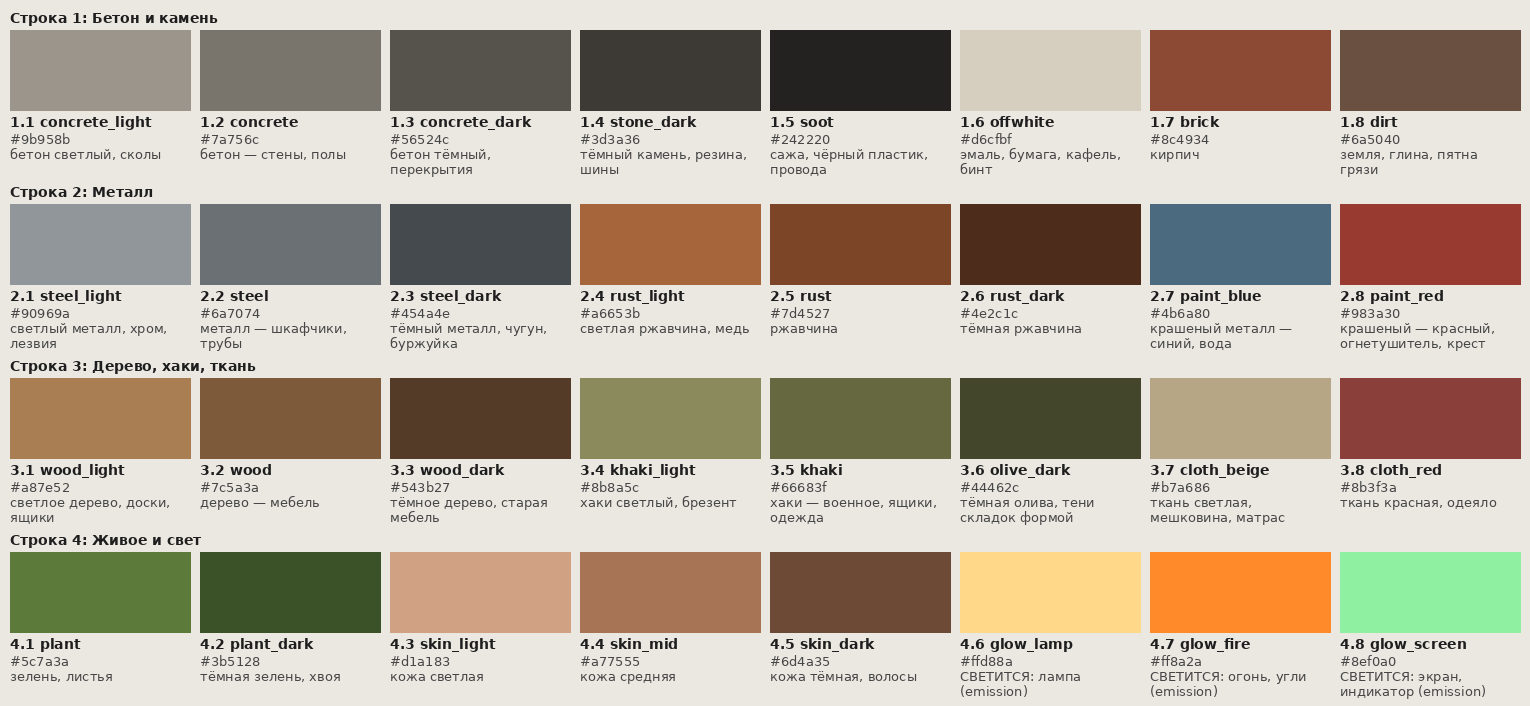
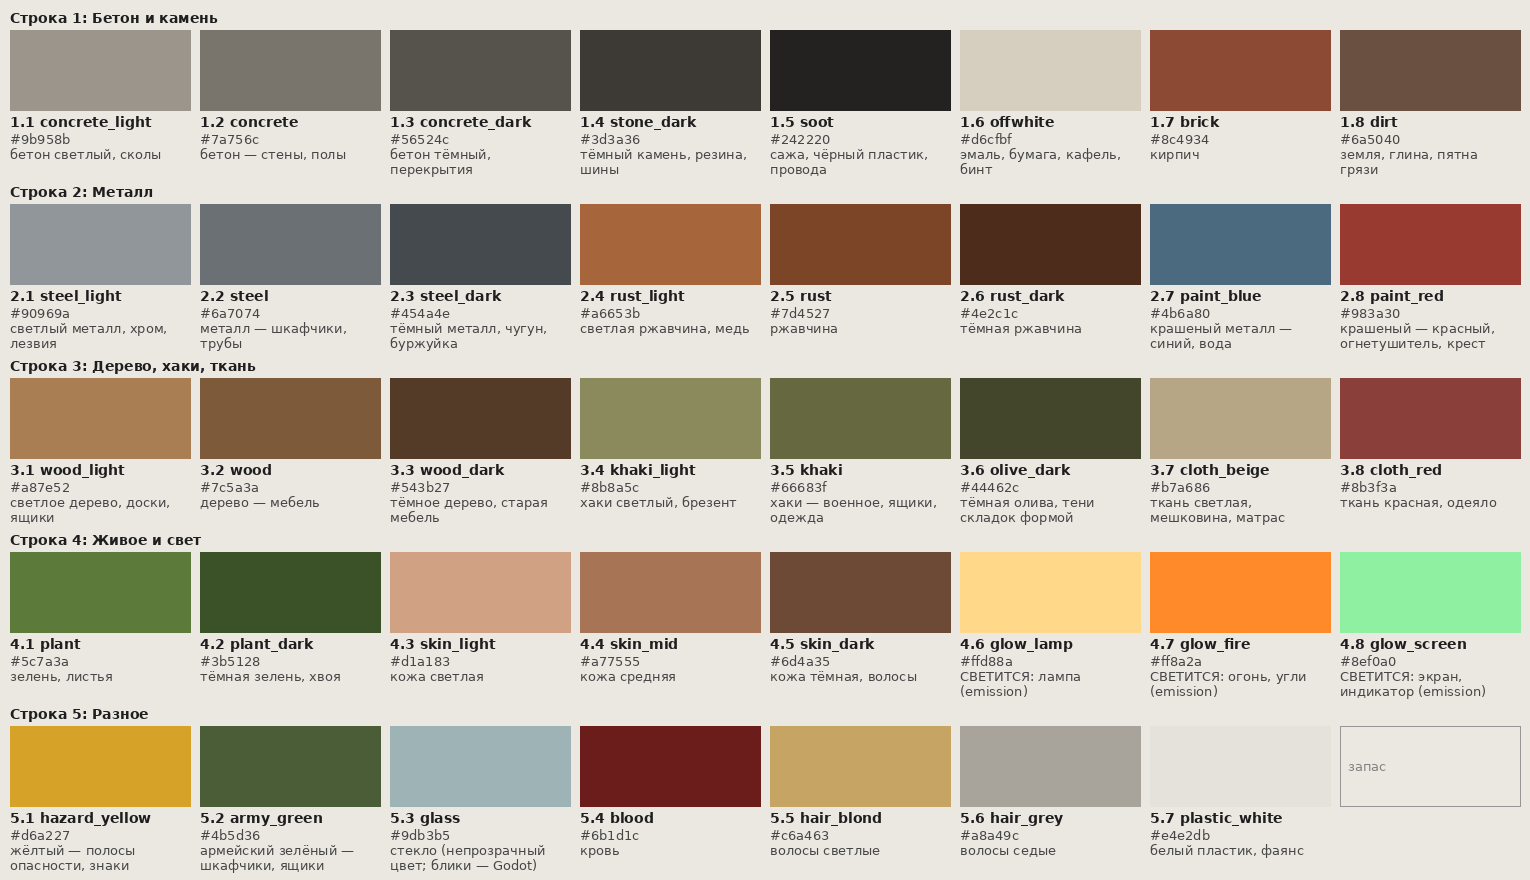
Палитра утверждена, строка 5 (жёлтый, армейский зелёный, стекло, кровь, волосы, белый пластик), цвет по имени
Claude-Session: https://claude.ai/code/session_01M8wGrY9uxR912dkWmhS8mM

diff --git a/palette/_palette.py b/palette/_palette.py
@@ -1,13 +1,15 @@
 """Собирает общую палитру: palette/palette.png (текстура для моделей) и palette/palette_preview.png (для автора).
 Запуск: python3 palette/_palette.py. Цвета меняются только здесь, потом — пересобрать.
-Сетка 8 × 4 квадрата по 32 px. Квадрат (столбец c, строка r) — UV-центр: u = (c + 0,5) / 8, v = 1 − (r + 0,5) / 4.
+Сетка 8 × 5 квадратов по 32 px. В скриптах моделей цвет берётся ПО ИМЕНИ: uv("rust") — так палитру можно
+расширять и переставлять, а модели после пересборки сами найдут свои цвета.
 """
 import os
 from PIL import Image, ImageDraw, ImageFont
 
 CELL = 32
-COLS, ROWS = 8, 4
-# (имя, hex, для чего). Строка 0 — бетон/камень, 1 — металл, 2 — дерево/ткань/хаки, 3 — живое и свет.
+COLS = 8
+# (имя, hex, для чего). Строки: бетон/камень, металл, дерево/ткань/хаки, живое и свет, разное.
+# Имя не менять, если цвет уже используется в моделях (иначе поправить скрипты); пустое место — None.
 COLORS = [
     [("concrete_light", "#9b958b", "бетон светлый, сколы"),
      ("concrete", "#7a756c", "бетон — стены, полы"),
@@ -41,9 +43,33 @@ COLORS = [
      ("glow_lamp", "#ffd88a", "СВЕТИТСЯ: лампа (emission)"),
      ("glow_fire", "#ff8a2a", "СВЕТИТСЯ: огонь, угли (emission)"),
      ("glow_screen", "#8ef0a0", "СВЕТИТСЯ: экран, индикатор (emission)")],
+    [("hazard_yellow", "#d6a227", "жёлтый — полосы опасности, знаки"),
+     ("army_green", "#4b5d36", "армейский зелёный — шкафчики, ящики"),
+     ("glass", "#9db3b5", "стекло (непрозрачный цвет; блики — Godot)"),
+     ("blood", "#6b1d1c", "кровь"),
+     ("hair_blond", "#c6a463", "волосы светлые"),
+     ("hair_grey", "#a8a49c", "волосы седые"),
+     ("plastic_white", "#e4e2db", "белый пластик, фаянс"),
+     None],
 ]
+ROWS = len(COLORS)
 
 HERE = os.path.dirname(os.path.abspath(__file__))
+
+
+def _cells():
+    for r, row in enumerate(COLORS):
+        for c, cell in enumerate(row):
+            if cell:
+                yield r, c, cell
+
+
+def uv(name):
+    """UV-центр квадрата цвета по имени (для скриптов моделей)."""
+    for r, c, (n, _, _) in _cells():
+        if n == name:
+            return ((c + 0.5) / COLS, 1.0 - (r + 0.5) / ROWS)
+    raise KeyError(f"Нет цвета «{name}» в палитре (palette/palette.md)")
 
 
 def hex2rgb(h):
@@ -51,11 +77,11 @@ def hex2rgb(h):
 
 
 def build_texture():
-    im = Image.new("RGB", (COLS * CELL, ROWS * CELL))
+    # Пустые места — нейтральный серый (запас под новые цвета)
+    im = Image.new("RGB", (COLS * CELL, ROWS * CELL), (128, 128, 128))
     d = ImageDraw.Draw(im)
-    for r, row in enumerate(COLORS):
-        for c, (_, hx, _) in enumerate(row):
-            d.rectangle([c * CELL, r * CELL, (c + 1) * CELL - 1, (r + 1) * CELL - 1], fill=hex2rgb(hx))
+    for r, c, (_, hx, _) in _cells():
+        d.rectangle([c * CELL, r * CELL, (c + 1) * CELL - 1, (r + 1) * CELL - 1], fill=hex2rgb(hx))
     im.save(os.path.join(HERE, "palette.png"))
 
 
@@ -66,14 +92,19 @@ def build_preview():
         bold = ImageFont.truetype("DejaVuSans-Bold.ttf", 14)
     except OSError:
         font = bold = ImageFont.load_default()
-    rows_title = ["Бетон и камень", "Металл", "Дерево, хаки, ткань", "Живое и свет"]
+    rows_title = ["Бетон и камень", "Металл", "Дерево, хаки, ткань", "Живое и свет", "Разное"]
     im = Image.new("RGB", (COLS * W + PAD, ROWS * (H + 24) + PAD), (235, 232, 226))
     d = ImageDraw.Draw(im)
     for r, row in enumerate(COLORS):
         y0 = r * (H + 24) + PAD
         d.text((PAD, y0), f"Строка {r + 1}: {rows_title[r]}", font=bold, fill=(30, 30, 30))
-        for c, (name, hx, use) in enumerate(row):
+        for c, cell in enumerate(row):
             x0, y1 = c * W + PAD, y0 + 20
+            if cell is None:
+                d.rectangle([x0, y1, x0 + W - PAD, y1 + 80], outline=(150, 150, 150))
+                d.text((x0 + 8, y1 + 32), "запас", font=font, fill=(130, 130, 130))
+                continue
+            name, hx, use = cell
             d.rectangle([x0, y1, x0 + W - PAD, y1 + 80], fill=hex2rgb(hx))
             d.text((x0, y1 + 84), f"{r + 1}.{c + 1} {name}", font=bold, fill=(30, 30, 30))
             d.text((x0, y1 + 101), hx, font=font, fill=(70, 70, 70))
@@ -89,18 +120,19 @@ def build_preview():
 
 def build_md():
     lines = ["# Палитра", "",
-             "Общая палитра всех моделей: `palette.png` — 8 × 4 квадрата по 32 px. Собирается скриптом `_palette.py`",
+             "Общая палитра всех моделей: `palette.png` — 8 × 5 квадратов по 32 px. Собирается скриптом `_palette.py`",
              "(цвета меняются только там). Превью для глаз — `palette_preview.png`.", "",
-             "**Статус: черновик, ждёт утверждения автора.**", "",
+             "**Статус: утверждена автором 2026-10-08** (строки 1–4; строка 5 добавлена по его списку).", "",
              "- Цвета — «чистые» (правило 10): без света и тени. Темнее/светлее делает Godot своим светом.",
              "- Износ, грязь, ржавые пятна — отдельной гранью другого цвета палитры, не текстурой.",
              "- Строка 4, квадраты 6–8 — **светящееся** (материал emission): лампа, огонь, экран.",
-             "- В модели UV грани ставится в центр нужного квадрата: u = (столбец − 0,5) / 8, v = 1 − (строка − 0,5) / 4.",
+             "- **В скриптах моделей цвет — только по имени**: `uv(\"rust\")` из `_palette.py` (центр квадрата).",
+             "  Палитру можно расширять и переставлять — модели после пересборки найдут свои цвета сами.",
+             "- Пустое место (серое) — запас под новый цвет. Имя цвета, который уже есть в моделях, не менять.",
              "  Текстура без сглаживания (Closest), поэтому цвета не смешиваются.", "",
              "| № (строка.столбец) | Имя | Цвет | Для чего |", "|---|---|---|---|"]
-    for r, row in enumerate(COLORS):
-        for c, (name, hx, use) in enumerate(row):
-            lines.append(f"| {r + 1}.{c + 1} | `{name}` | `{hx}` | {use} |")
+    for r, c, (name, hx, use) in _cells():
+        lines.append(f"| {r + 1}.{c + 1} | `{name}` | `{hx}` | {use} |")
     open(os.path.join(HERE, "palette.md"), "w").write("\n".join(lines) + "\n")
 
 

diff --git a/render/_template.py b/render/_template.py
@@ -237,6 +237,26 @@ def palette_material():
     return mat
 
 
+def color_uv(name):
+    """UV-центр цвета палитры по имени: color_uv("rust"). Цвета — palette/palette.md."""
+    sys.path.insert(0, os.path.join(ROOT, "palette"))
+    import _palette
+    return _palette.uv(name)
+
+
+def paint(obj, name, faces=None):
+    """Красит грани меша (все или список индексов) цветом палитры по имени."""
+    me = obj.data
+    if me.uv_layers.active is None:
+        me.uv_layers.new(name="UVMap")
+    uv_layer = me.uv_layers.active.data
+    u, v = color_uv(name)
+    polys = me.polygons if faces is None else [me.polygons[i] for i in faces]
+    for poly in polys:
+        for li in poly.loop_indices:
+            uv_layer[li].uv = (u, v)
+
+
 def _test_cube():
     """Проверочный куб 1×1×1 м, origin внизу по центру, плоское затенение, один цвет."""
     bpy.ops.mesh.primitive_cube_add(size=1.0, location=(0, 0, 0.5))

diff --git a/README.md b/README.md
@@ -31,8 +31,10 @@
    в точке крепления, а «спина» в плоскости Y = 0.
 4. **Low-poly:** рубленые грани, плоское (flat) затенение, без мелких деталей. Ориентир по треугольникам:
    мелкий предмет — до 300, мебель — до 1 500, человек — до 3 000, здание/модуль комнаты — до 8 000.
-5. **Цвет — одна общая палитра** (`palette/palette.png`, 8 × 4 квадрата, список — `palette/palette.md`): у всех
-   моделей один материал с этой текстурой, цвет задаётся UV-развёрткой на нужный квадрат палитры. Без своих текстур у каждого объекта.
+5. **Цвет — одна общая палитра** (`palette/palette.png`, 8 × 5 квадратов, список — `palette/palette.md`): у всех
+   моделей один материал с этой текстурой, цвет задаётся UV-развёрткой на нужный квадрат палитры. В скриптах цвет
+   указывается **только по имени** (`paint(obj, "rust")` из `render/_template.py`) — тогда палитру можно менять и
+   расширять, а модели перекрашиваются простой пересборкой. Без своих текстур у каждого объекта.
    Светящееся (лампа, огонь печи, экран) — отдельный материал «emission».
 6. **Имя = id из игры, одна схема для всего:** `<id>_<вариация>_<состояние>` — модели, `.glb` и рендеры.
    Вариация — как в ОС, русскими словами латиницей (`zheleznaya_koyka`), состояние — `idle` / `broken`.
@@ -83,8 +85,9 @@
 ## Порядок работы
 
 0. **Подготовка (один раз, до любых моделей):**
-   - ⏳ `palette/palette.png` — общая палитра (32 цвета по `docs/STYLE.md`: бетон, ржавчина, хаки, дерево, ткань,
-     металл, зелень, тёплые цвета ламп и огня) + `palette/palette.md` — что за цвет в каком квадрате. **Утверждает автор.**
+   - ✅ `palette/palette.png` — общая палитра, 39 цветов + запас (по `docs/STYLE.md`: бетон, ржавчина, хаки, дерево,
+     ткань, металл, зелень, тёплые цвета ламп и огня) + `palette/palette.md` — что за цвет в каком квадрате.
+     **Утверждена автором 2026-10-08.**
    - ✅ `render/_template.blend` (собирает `python3 render/_template.py`): камера 12°, 200 px/м, Standard,
      прозрачный фон, материал-замена для карты нормалей, проверочный куб 1×1×1 м → `renders/_test/`.
    - ✅ Blender: в облачной сессии ставится сам при старте (`.claude/hooks/session-start.sh`, модуль Python `bpy`).

diff --git a/palette/palette.md b/palette/palette.md
@@ -1,14 +1,16 @@
 # Палитра
 
-Общая палитра всех моделей: `palette.png` — 8 × 4 квадрата по 32 px. Собирается скриптом `_palette.py`
+Общая палитра всех моделей: `palette.png` — 8 × 5 квадратов по 32 px. Собирается скриптом `_palette.py`
 (цвета меняются только там). Превью для глаз — `palette_preview.png`.
 
-**Статус: черновик, ждёт утверждения автора.**
+**Статус: утверждена автором 2026-10-08** (строки 1–4; строка 5 добавлена по его списку).
 
 - Цвета — «чистые» (правило 10): без света и тени. Темнее/светлее делает Godot своим светом.
 - Износ, грязь, ржавые пятна — отдельной гранью другого цвета палитры, не текстурой.
 - Строка 4, квадраты 6–8 — **светящееся** (материал emission): лампа, огонь, экран.
-- В модели UV грани ставится в центр нужного квадрата: u = (столбец − 0,5) / 8, v = 1 − (строка − 0,5) / 4.
+- **В скриптах моделей цвет — только по имени**: `uv("rust")` из `_palette.py` (центр квадрата).
+  Палитру можно расширять и переставлять — модели после пересборки найдут свои цвета сами.
+- Пустое место (серое) — запас под новый цвет. Имя цвета, который уже есть в моделях, не менять.
   Текстура без сглаживания (Closest), поэтому цвета не смешиваются.
 
 | № (строка.столбец) | Имя | Цвет | Для чего |
@@ -45,3 +47,10 @@
 | 4.6 | `glow_lamp` | `#ffd88a` | СВЕТИТСЯ: лампа (emission) |
 | 4.7 | `glow_fire` | `#ff8a2a` | СВЕТИТСЯ: огонь, угли (emission) |
 | 4.8 | `glow_screen` | `#8ef0a0` | СВЕТИТСЯ: экран, индикатор (emission) |
+| 5.1 | `hazard_yellow` | `#d6a227` | жёлтый — полосы опасности, знаки |
+| 5.2 | `army_green` | `#4b5d36` | армейский зелёный — шкафчики, ящики |
+| 5.3 | `glass` | `#9db3b5` | стекло (непрозрачный цвет; блики — Godot) |
+| 5.4 | `blood` | `#6b1d1c` | кровь |
+| 5.5 | `hair_blond` | `#c6a463` | волосы светлые |
+| 5.6 | `hair_grey` | `#a8a49c` | волосы седые |
+| 5.7 | `plastic_white` | `#e4e2db` | белый пластик, фаянс |

diff --git a/docs/LOG.md b/docs/LOG.md
@@ -10,3 +10,4 @@
 | 2026-10-08 | README: шаг 0 «Подготовка» (палитра, шаблон рендера, проверка Blender); проба — оболочка комнаты вместо объекта ОС; имена рендеров — как в `docs/IMAGES.md`. |
 | 2026-10-08 | Решения автора по пунктам 1–9: единый масштаб 200 px/м (игра берёт размер из картинки — в `FOR_GAME.md`); оболочка 512 × 364 см без полосы потолка, перекрытие 512 × 100 поверх, ряды +11/+32/+53; сегмент 512 см вместо «кратна 1 м»; имена `<id>_<вариация>_<состояние>` везде, вариации как в ОС; пыль/мусор — формой. Число объектов исправлено на 167. |
 | 2026-10-08 | Шаг 0: шаблон рендера `render/_template.py` → `_template.blend` (Cycles на CPU, камера 12°, вертикаль +2,2 % для точной сетки этажей, чистый цвет + карта нормалей), проверочный куб в `renders/_test/`. Автоустановка Blender (`bpy`) при старте сессии — `.claude/hooks/session-start.sh`. Черновик палитры (32 цвета) — `palette/`, ждёт утверждения. |
+| 2026-10-08 | Палитра утверждена автором. Добавлена строка 5: жёлтый (опасность), армейский зелёный, стекло, кровь, волосы светлые и седые, белый пластик/фаянс + 1 место в запасе. Цвет в скриптах — по имени (`uv()` в `_palette.py`, `paint()` в `_template.py`). |
